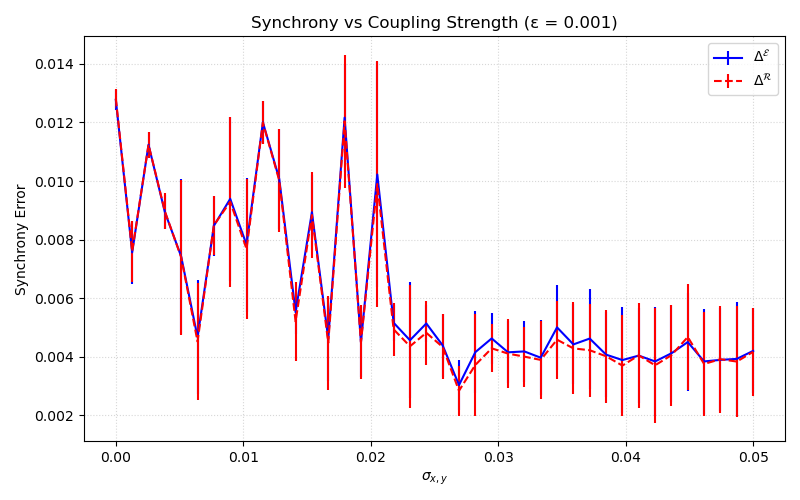
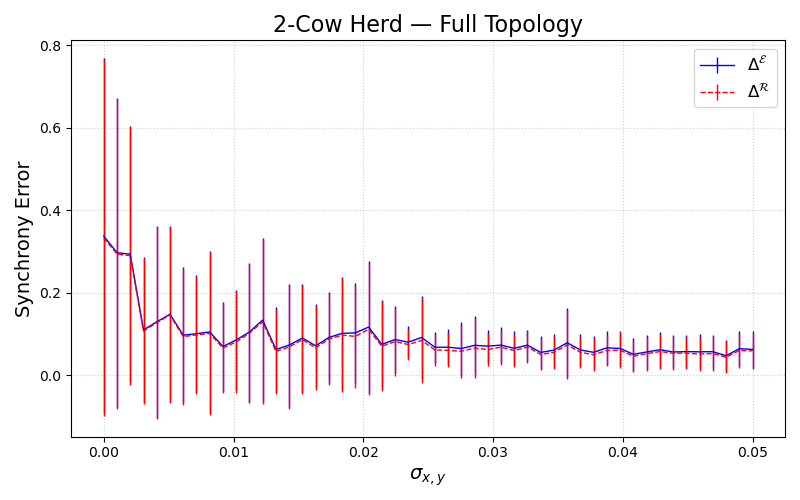
ran 4 10-cow simulations, added graphs

diff --git a/main.py b/main.py
@@ -21,96 +21,66 @@ from utils import (
     build_grid_adjacency,
     build_random_adjacency
     )
-import time
 
-def plot_synchrony_vs_sigma(epsilon=0.001, n_trials=50, sigma_vals=None):
-    """
-    Plot Δ^E and Δ^R vs coupling strength σ for fixed epsilon.
-    """
-    T = 10000 * 0.5  # or T = timesteps * stepsize, if you prefer
-    if sigma_vals is None:
-        sigma_vals = np.linspace(0, 0.05, 40)
-
-    mean_E, std_E = [], []
-    mean_R, std_R = [], []
-
-    for sigma in sigma_vals:
-        delta_E_list = []
-        delta_R_list = []
-
-        for _ in range(n_trials):
-            states_1, states_2 = simulate_two_cows(
-                epsilon=epsilon,
-                sigma_x=sigma,
-                sigma_y=sigma
-            )
-            tau_1 = get_transition_times(states_1, 0)
-            kappa_1 = get_transition_times(states_1, 1)
-            tau_2 = get_transition_times(states_2, 0)
-            kappa_2 = get_transition_times(states_2, 1)
-            
-            
-            delta_E = compute_pairwise_synchrony(tau_1, tau_2, T)
-            delta_R = compute_pairwise_synchrony(kappa_1, kappa_2, T)
-            delta_E_list.append(delta_E)
-            delta_R_list.append(delta_R)
-
-        mean_E.append(np.mean(delta_E_list))
-        std_E.append(np.std(delta_E_list))
-        mean_R.append(np.mean(delta_R_list))
-        std_R.append(np.std(delta_R_list))
-
-    # Plotting
-    plt.figure(figsize=(8, 5))
-    plt.errorbar(sigma_vals, mean_E, yerr=std_E, label=r'$\Delta^{\mathcal{E}}$', color='blue')
-    plt.errorbar(sigma_vals, mean_R, yerr=std_R, label=r'$\Delta^{\mathcal{R}}$', color='red', linestyle='--')
-
-    plt.xlabel(r'$\sigma_{x,y}$')
-    plt.ylabel("Synchrony Error")
-    plt.title(f"Synchrony vs Coupling Strength (ε = {epsilon})")
-    plt.legend()
-    plt.grid(True, linestyle=':', alpha=0.5)
-    plt.tight_layout()
-    plt.show()
-
-
-def choose_adjacency(topology, n_cows, seed=42):
+def choose_adjacency(topology, n_cows, rng=None):
     if topology == 'full':
         A = np.ones((n_cows, n_cows)) - np.eye(n_cows)
     elif topology == 'grid':
-        side = int(np.sqrt(n_cows))
-        assert side ** 2 == n_cows, "Grid topology requires a square number of cows"
-        A = build_grid_adjacency(side, side)
+        # Manually define grid shape for consistent structure
+        assert n_cows == 10, "Grid currently expects 10 cows"
+        A = build_grid_adjacency(rows=2, cols=5)  # Or rows=5, cols=2 for vertical
     elif topology == 'random':
-        np.random.seed(seed)
-        A = np.random.rand(n_cows, n_cows)
-        A = np.triu(A, 1)
-        A = (A + A.T) < 0.3  # keep 30% of edges
+        if rng is None:
+            rng = np.random.default_rng()
+        edge_prob = 0.75
+        A = rng.random((n_cows, n_cows))
+        A = np.triu(A, 1) < edge_prob  # upper triangle only
         A = A.astype(int)
-        np.fill_diagonal(A, 0)
+        A = A + A.T  # make symmetric
+        np.fill_diagonal(A, 0)  # no self-connections
     else:
         raise ValueError(f"Unknown topology: {topology}")
-    return A
+    return A 
 
 def run_herd_synchrony_experiment():
-    sigma_vals = np.linspace(0.001, 0.05, 40)
+    sigma_vals = np.linspace(0.00, 0.05, 50)
     n_trials = 50
     n_cows = 10
+    param_noise = 0.001
+    timesteps = 30000
+    stepsize = 0.5
+    delta = 0.25
 
-    for topology in ['full', 'grid', 'random']:
+    master_rng = np.random.default_rng(seed=42)
+
+    for topology in ['random']: #['full', 'grid', 'random']:
+        print(f"Starting topology: {topology}")
         mean_E = []
         std_E = []
         mean_R = []
         std_R = []
 
         for sigma in sigma_vals:
+            print(f"  σ = {sigma:.4f}")
             deltas_E = []
             deltas_R = []
 
             for _ in range(n_trials):
-                A = choose_adjacency(topology, n_cows)
-                herd = simulate_herd(n_cows, sigma_x=sigma, sigma_y=sigma, A=A)
-                delta_E, delta_R, _ = compute_herd_synchrony(herd, T=5000)  # Make sure to pass T
+                trial_rng = np.random.default_rng(master_rng.integers(1e9))
+                A = choose_adjacency(topology, n_cows, rng=trial_rng)
+
+                herd = simulate_herd(
+                    n_cows=n_cows,
+                    A=A,
+                    sigma_x=sigma,
+                    sigma_y=sigma,
+                    param_noise=param_noise,
+                    timesteps=timesteps,
+                    stepsize=stepsize,
+                    delta=delta
+                )
+
+                delta_E, delta_R, _ = compute_herd_synchrony(herd)
                 deltas_E.append(delta_E)
                 deltas_R.append(delta_R)
 
@@ -119,6 +89,7 @@ def run_herd_synchrony_experiment():
             mean_R.append(np.mean(deltas_R))
             std_R.append(np.std(deltas_R))
 
+        print(f"{topology.capitalize()} topology Δ^R: min={np.min(mean_R):.3f}, max={np.max(mean_R):.3f}")
         plot_synchrony_vs_sigma(
             sigma_vals,
             mean_E, std_E,
@@ -198,7 +169,7 @@ if __name__ == "__main__":
     # states_1 = states_1[start:end]
     # states_2 = states_2[start:end]
 
-    # Plot 2-cow simulation
+    # # Plot 2-cow simulation
     # plot_observable_states(states_1, states_2, start=start, title="Observable States")
 
     # plot_synchrony_vs_sigma(epsilon=0.001, n_trials=50)

diff --git a/utils.py b/utils.py
@@ -47,7 +47,7 @@ def plot_observable_states(states_1, states_2, start=3000, title="Observable Sta
     change_points_1 = get_state_change_points(states_1)
     change_points_2 = get_state_change_points(states_2)
 
-    plt.figure(figsize=(10, 4))
+    plt.figure(figsize=(6, 3))
 
     # Plot full lines
     plt.plot(timesteps, states_1, linestyle='-', color='red', linewidth=1, label='Cow 1')
@@ -110,7 +110,7 @@ def get_transition_times(obs_states, target_state, min_duration=3):
     return transition_times
 
 
-def compute_pairwise_synchrony(times_i, times_j, T, max_shift=10):
+def compute_pairwise_synchrony(times_i, times_j, max_shift=10):
     """
     Computes the minimum average absolute difference between two time series,
     allowing integer shifts in alignment and normalizing by the total time.
@@ -144,15 +144,15 @@ def compute_pairwise_synchrony(times_i, times_j, T, max_shift=10):
         if len(cropped_i) == 0:
             continue
 
-        delta = np.mean(np.abs(np.array(cropped_i) - np.array(cropped_j))) / T
+        delta = np.mean(np.abs(np.array(cropped_i) - np.array(cropped_j))) * (0.5 / 60)
         best_delta = min(best_delta, delta)
 
     return best_delta
 
-
-def compute_herd_synchrony(state_sequences, T, max_shift=10):
+def compute_herd_synchrony(state_sequences, max_shift=10):
     """
-    Computes average herd synchrony over all unordered cow pairs (i, j), i < j.
+    Computes average herd synchrony over all pairs (i, j) including i = j,
+    as defined in Equation (31) of the paper.
 
     Parameters:
         state_sequences: list of observable state arrays (1 per cow)
@@ -168,21 +168,19 @@ def compute_herd_synchrony(state_sequences, T, max_shift=10):
 
     total_delta_E = 0
     total_delta_R = 0
-    count = 0
 
     for i in range(n):
-        for j in range(i + 1, n):  # only unordered pairs (i < j)
-            delta_E = compute_pairwise_synchrony(tau_list[i], tau_list[j], T, max_shift)
-            delta_R = compute_pairwise_synchrony(kappa_list[i], kappa_list[j], T, max_shift)
+        for j in range(n):  # include i == j
+            if i == j:
+                continue  # optional: skip, since Δ_ii = 0
+            delta_E = compute_pairwise_synchrony(tau_list[i], tau_list[j], max_shift)
+            delta_R = compute_pairwise_synchrony(kappa_list[i], kappa_list[j], max_shift)
             total_delta_E += delta_E
             total_delta_R += delta_R
-            count += 1
 
-    if count == 0:
-        return float("inf"), float("inf"), float("inf")
-
-    avg_delta_E = total_delta_E / count
-    avg_delta_R = total_delta_R / count
+    normalizer = n * n
+    avg_delta_E = total_delta_E / normalizer
+    avg_delta_R = total_delta_R / normalizer
     total = avg_delta_E + avg_delta_R
 
     return avg_delta_E, avg_delta_R, total

diff --git a/simulation.py b/simulation.py
@@ -178,7 +178,7 @@ def simulate_two_cows(epsilon=0.001, timesteps=10000, stepsize=.5, sigma_x=0.045
     return np.array(states_1), np.array(states_2)
 
 
-def simulate_herd(n_cows=10, A=None, timesteps=10000, stepsize=0.5,
+def simulate_herd(n_cows=10, A=None, timesteps=30000, stepsize=0.5,
                   sigma_x=0.05, sigma_y=0.05,
                   param_base=(0.05, 0.1, 0.05, 0.125),
                   param_noise=0.001,
